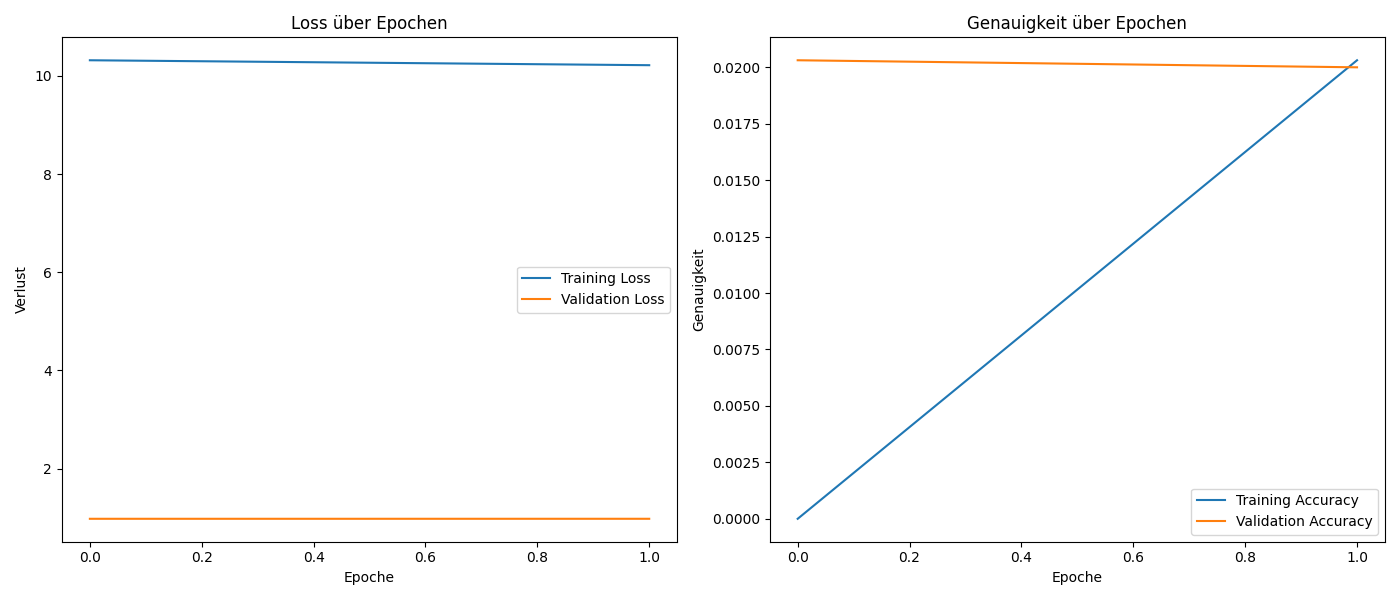
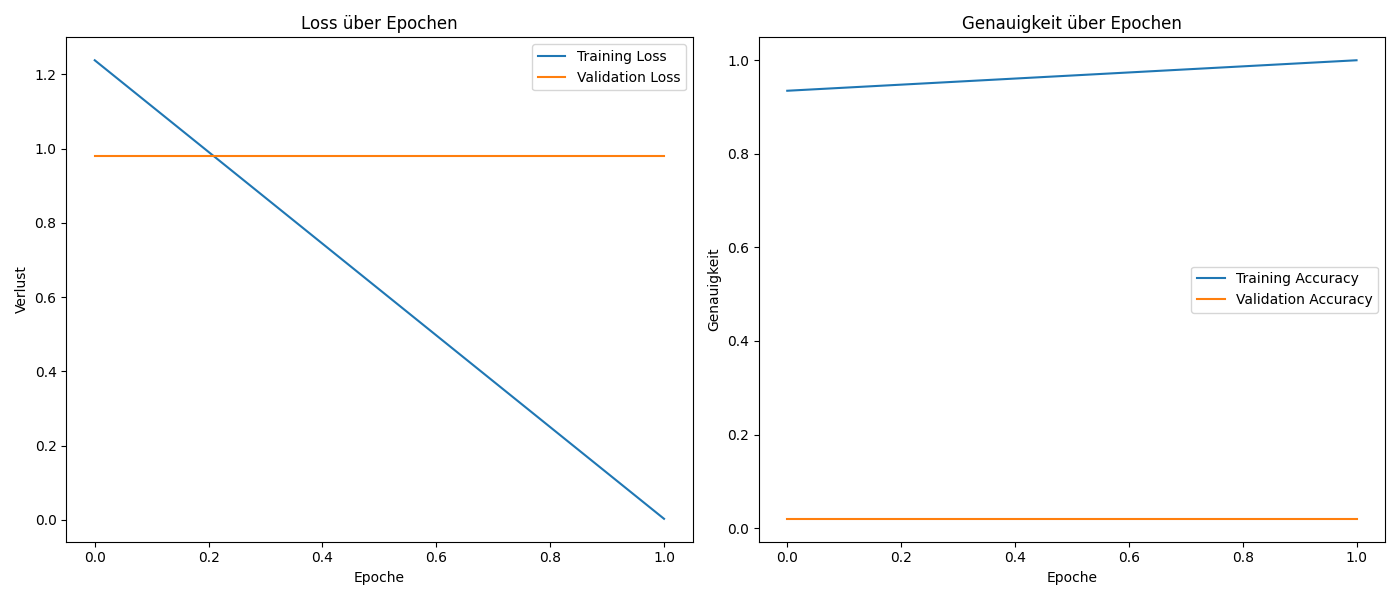
Update

diff --git a/transformer-tensorflow-latest/Layers/Transformer.py b/transformer-tensorflow-latest/Layers/Transformer.py
@@ -16,10 +16,17 @@ class Transformer(keras.Model):
 
     self.supports_masking = True
 
-    self.START_TOKEN = tf.constant(start_token, dtype=tf.int64)
-    self.END_TOKEN = tf.constant(end_token, dtype=tf.int64)
-
+    self.num_layers = num_layers
+    self.d_model = d_model
+    self.num_heads = num_heads
+    self.dff = dff
+    self.input_vocab_size = input_vocab_size
+    self.target_vocab_size = target_vocab_size
     self.max_target_length = max_target_length
+    self.dropout_rate = dropout_rate
+    self.learning_rate = learning_rate
+    self.start_token = start_token
+    self.end_token = end_token
 
     self.optimizer = keras.optimizers.Adam(learning_rate=learning_rate)
 
@@ -35,7 +42,38 @@ class Transformer(keras.Model):
 
     self.final_layer = keras.layers.Dense(target_vocab_size)
 
+  def get_config(self):
+        # Gibt alle Parameter zurück, die beim Initialisieren verwendet wurden
+        base_config = super(Transformer, self).get_config()
+        
+        # Konfiguration für die benutzerdefinierten Parameter
+        custom_config = {
+            'num_layers': self.num_layers,
+            'd_model': self.d_model,
+            'num_heads': self.num_heads,
+            'dff': self.dff,
+            'input_vocab_size': self.input_vocab_size,
+            'target_vocab_size': self.target_vocab_size,
+            'max_target_length': self.max_target_length,
+            'dropout_rate': self.dropout_rate,
+            'learning_rate': self.learning_rate,
+            'start_token': self.start_token,
+            'end_token': self.end_token
+        }
+        
+        # Kombiniere beide Konfigurationen
+        return {**base_config, **custom_config}
 
+  @classmethod
+  def from_config(cls, config):
+      # Erstelle eine Instanz des Modells anhand der Konfiguration
+      config.pop('trainable', None)
+      config.pop('dtype', None)
+      config.pop('name', None)
+
+      return cls(**config)
+
+  @tf.function
   def call(self, inputs, training=False):
 
     context, x  = inputs
@@ -65,94 +103,28 @@ class Transformer(keras.Model):
 
     return loss, accuracy
   
-
-  """def evaluate(self, context, target):
-
-    accuracies = []
-    losses = []
-
-    for i in range(len(context)):
-
-      input_seq = context[i]
-      input_seq = tf.expand_dims(input_seq, axis=0)
-
-      final_output = self.my_predict(input_seq)
-
-      loss = simple_loss(target[i], final_output)
-      accuracy = simple_accuracy(target[i], final_output)
-
-      losses.append(loss)
-      accuracies.append(accuracy)
-
-    return np.mean(losses), np.mean(accuracies)"""
-  
-  @tf.function
-  def evaluate(self, context, target):
-      # Create a map function to process each context in the batch
-      def compute_loss_and_accuracy(input_seq, target_seq):
-          input_seq = tf.expand_dims(input_seq, axis=0)  # Add batch dimension
-          final_output = self.my_predict(input_seq)
-          final_output = tf.squeeze(final_output)
-          
-          loss = simple_loss(target_seq, final_output)
-          accuracy = simple_accuracy(target_seq, final_output)
-          return loss, accuracy
-
-      # Map the function over the entire batch (context)
-      results = tf.map_fn(lambda x: compute_loss_and_accuracy(x[0], x[1]), (context, target), dtype=(tf.float32, tf.float32))
-
-      # Extract losses and accuracies from the results
-      losses, accuracies = results
-
-      # Return the mean loss and accuracy
-      return tf.reduce_mean(losses), tf.reduce_mean(accuracies)
-  
-
-  """def my_predict(self, context):
-
-    output_array = tf.TensorArray(dtype=tf.int64, size=0, dynamic_size=True)
-    output_array = output_array.write(0, self.START_TOKEN)
-
-    for i in range(self.max_target_length - 1): 
-
-      output = tf.transpose(output_array.stack())
-      output = tf.expand_dims(output, axis=0)
-
-      predictions = self.call([context, output], training=False)
-      predictions = predictions[-1, -1, :]
-
-      predicted_id = tf.argmax(predictions, axis=-1)
-      predicted_id = tf.squeeze(predicted_id)
-      
-      output_array = output_array.write(i + 1, predicted_id)
-      
-      if predicted_id == self.END_TOKEN:
-        break
-
-    final_output = output_array.stack()
-    return final_output"""
   
   @tf.function(input_signature=[tf.TensorSpec(shape=[None, None], dtype=tf.int32)])
-  def my_predict(self, context):
+  def predict(self, x, batch_size=None, verbose=0):
 
     # Initialize output array
     output_array = tf.TensorArray(dtype=tf.int64, size=0, dynamic_size=True)
-    output_array = output_array.write(0, self.START_TOKEN)
+    output_array = output_array.write(0, self.start_token)
     
     # Define loop variables
     i = tf.constant(0, dtype=tf.int32)
-    predicted_id = tf.constant(self.START_TOKEN, dtype=tf.int64)
+    predicted_id = tf.constant(self.start_token, dtype=tf.int64)
 
     # Define the condition for the while loop: i < max_target_length
     def condition(i, predicted_id, output_array):
-        return tf.logical_and(i < self.max_target_length - 1, tf.not_equal(predicted_id, self.END_TOKEN))
+        return tf.logical_and(i < self.max_target_length - 1, tf.not_equal(predicted_id, self.end_token))
 
     # Define the body of the loop
     def body(i, predicted_id, output_array):
         output = tf.transpose(output_array.stack())
         output = tf.expand_dims(output, axis=0)
 
-        predictions = self.call([context, output], training=False)
+        predictions = self.call([x, output], training=False)
         predictions = predictions[-1, -1, :]
 
         predicted_id = tf.argmax(predictions, axis=-1)
@@ -172,8 +144,29 @@ class Transformer(keras.Model):
     final_output = output_array.stack()
     return final_output
 
+  @tf.function
+  def evaluate(self, context, target):
+      # Create a map function to process each context in the batch
+      def compute_loss_and_accuracy(input_seq, target_seq):
+          input_seq = tf.expand_dims(input_seq, axis=0)  # Add batch dimension
+          final_output = self.predict(input_seq)
+          final_output = tf.squeeze(final_output)
+          
+          loss = simple_loss(target_seq, final_output)
+          accuracy = simple_accuracy(target_seq, final_output)
+          return loss, accuracy
 
-  def my_train(self, x, y, val_x, val_y, batch_size=32, epochs=10):
+      # Map the function over the entire batch (context)
+      results = tf.map_fn(lambda x: compute_loss_and_accuracy(x[0], x[1]), (context, target), dtype=(tf.float32, tf.float32))
+
+      # Extract losses and accuracies from the results
+      losses, accuracies = results
+
+      # Return the mean loss and accuracy
+      return tf.reduce_mean(losses), tf.reduce_mean(accuracies)
+
+
+  def train(self, x, y, val_x, val_y, batch_size=32, epochs=10):
 
     history = {"loss": [], "accuracy": [], "val_loss": [], "val_accuracy": []}
 

diff --git a/transformer-tensorflow-latest/predict.py b/transformer-tensorflow-latest/predict.py
@@ -10,7 +10,7 @@ d_model = 128
 dff = 512
 num_heads = 8
 dropout_rate = 0.1
-batch_size = 64  # Set to 1 for inference (predicting one example at a time)
+batch_size = 64
 max_input_length = 50
 max_target_length = 50
 input_vocab_size = 30000
@@ -28,7 +28,6 @@ transformer = Transformer(
     dropout_rate=dropout_rate,
     max_target_length=max_target_length
 )
-transformer.compile()
 
 start_token = 6
 
@@ -36,7 +35,15 @@ input_seq, target_seq, input_padding_mask, target_padding_mask = generate_random
     total_sequences, max_input_length, max_target_length, input_vocab_size, target_vocab_size, start_token_input=start_token, start_token_target=start_token
 )
 
-#prediction = transformer.signatures["my_predict"](context=input_seq)
-prediction = transformer.my_predict(input_seq)
+# Ensure that the model is built (necessary before loading weights)
+transformer.build(input_shape=(None, max_input_length))
+
+# Load model weights
+transformer.load_weights('transformer.weights.h5')
+
+transformer.summary()
+
+# Predict
+prediction = transformer.predict(input_seq)
 
 print("Final predicted sequence:", prediction)

diff --git a/transformer-tensorflow-latest/train.py b/transformer-tensorflow-latest/train.py
@@ -18,7 +18,7 @@ max_input_length = 50
 max_target_length = 50
 input_vocab_size = 30000
 target_vocab_size = 30000
-total_sequences = 64*2
+total_sequences = 100000
 
 transformer = Transformer(
     num_layers=num_layers,
@@ -45,7 +45,7 @@ y_train = target_seq[:target_seq_len]
 X_validiation = input_seq[input_seq_len:]
 y_validiation= target_seq[target_seq_len:]
 
-history = transformer.my_train(X_train, y_train, X_validiation, y_validiation, epochs=2, batch_size=batch_size)
+history = transformer.train(X_train, y_train, X_validiation, y_validiation, epochs=2, batch_size=batch_size)
 
 #tf.saved_model.save(transformer, "transformer.keras", signatures={"my_predict": transformer.my_predict})
 transformer.save_weights('transformer.weights.h5')
